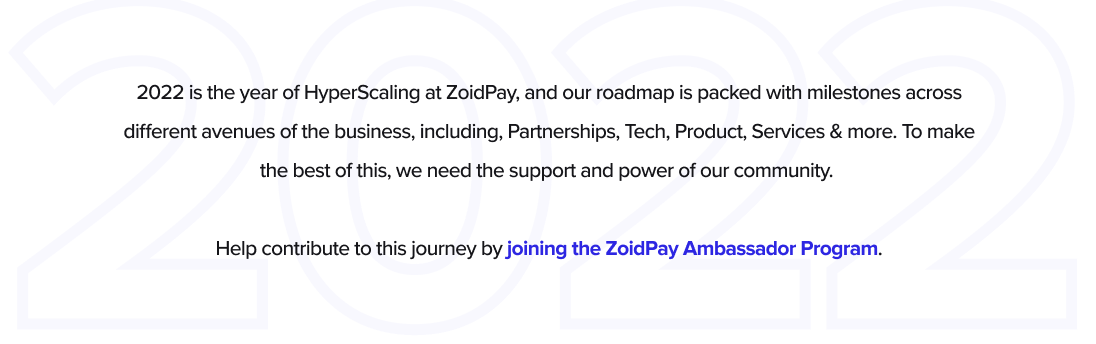
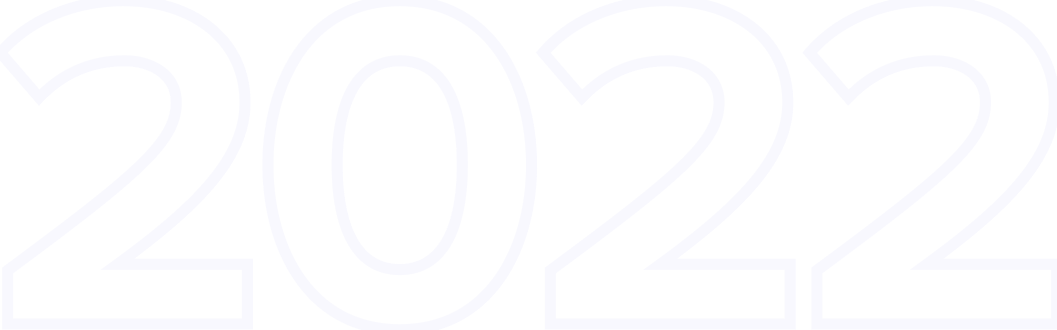
start benefit section

diff --git a/src/containers/ProgramSection.jsx b/src/containers/ProgramSection.jsx
@@ -3,11 +3,15 @@ import mapIllustration from "../assets/images/png/map-illustration.png";
 
 const ProgramSection = () => {
 	return (
-		<section className="relative py-20 px-4 bg-gradient-bg">
-			<div className="container mx-auto text-white text-center flex flex-col space-y-4 px-4">
-				<h3 className="uppercase font-extrabold text-sm lg:text-lg">About the</h3>
-				<h2 className="font-bold text-2xl lg:text-4xl xl:text-5xl">Ambassador Program</h2>
-				<p className="font-medium py-3 max-w-sm sm:max-w-md md:max-w-2xl lg:max-w-3xl mx-auto text-left sm:text-center md:text-xl">
+		<section className="py-20 px-4 bg-gradient-bg lg:pt-28 md:pb-0 overflow-hidden md:space-y-12 lg:space-y-16">
+			<div className="container mx-auto text-white text-center flex flex-col space-y-4 px-2 lg:space-y-7">
+				<h3 className="uppercase font-extrabold text-sm lg:text-lg">
+					About the
+				</h3>
+				<h2 className="font-bold text-2xl lg:text-4xl xl:text-5xl">
+					Ambassador Program
+				</h2>
+				<p className="font-medium py-3 max-w-sm sm:max-w-md md:max-w-2xl lg:max-w-3xl mx-auto text-left sm:text-center md:text-lg lg:text-xl lg:leading-[40px] xl:max-w-5xl">
 					ZoidPay is fast becoming one of the most sought after
 					projects when it comes to offering crypto liquidity
 					solutions. We are striving to be the go-to Open Architecture
@@ -15,9 +19,9 @@ const ProgramSection = () => {
 					Services. And, we need your support in this path.
 				</p>
 			</div>
-			{/* <div className="absolute inset-0 bg-gradient-bg">
+			<div className="hidden md:block md:translate-y-5 lg:translate-y-10">
 				<img src={mapIllustration} alt="map illustration" />
-			</div> */}
+			</div>
 		</section>
 	);
 };

diff --git a/src/containers/BenefitSection.jsx b/src/containers/BenefitSection.jsx
@@ -1,0 +1,31 @@
+import React from "react";
+
+const BenefitSection = () => {
+	return (
+		<section className="px-4">
+			<div className="container mx-auto px-2">
+				<div className="flex flex-col space-y-5 my-20 py-10 lg:py-20 xl:py-24 lg:my-32 bg-year-banner bg-contain md:bg-no-repeat md:bg-center">
+					{/* 2022 */}
+					<div className="flex flex-col space-y-5 font-medium max-w-sm sm:max-w-md md:max-w-2xl lg:max-w-4xl mx-auto text-left sm:text-center md:text-lg md:space-y-8 lg:text-xl lg:leading-[40px] xl:max-w-5xl">
+						<p>
+							2022 is the year of HyperScaling at ZoidPay, and our
+							roadmap is packed with milestones across different
+							avenues of the business, including, Partnerships,
+							Tech, Product, Services & more. To make the best of
+							this, we need the support and power of our
+							community.
+						</p>
+						<p>
+							Help contribute to this journey by{" "}
+							<span className="text-txt-primary">
+								joining the ZoidPay Ambassador Program.
+							</span>
+						</p>
+					</div>
+				</div>
+			</div>
+		</section>
+	);
+};
+
+export default BenefitSection;

diff --git a/src/App.jsx b/src/App.jsx
@@ -2,6 +2,7 @@ import React from "react";
 import Navbar from "./containers/Navbar";
 import Hero from "./containers/Hero";
 import ProgramSection from "./containers/ProgramSection";
+import BenefitSection from "./containers/BenefitSection";
 
 const App = () => {
 	return (
@@ -10,6 +11,7 @@ const App = () => {
 			<main>
 				<Hero />
 				<ProgramSection />
+				<BenefitSection />
 			</main>
 		</>
 	);

diff --git a/index.html b/index.html
@@ -1,5 +1,5 @@
 <!DOCTYPE html>
-<html lang="en">
+<html lang="en" class="scroll-smooth">
   <head>
     <meta charset="UTF-8" />
     <link rel="icon" type="image/svg+xml" href="/vite.svg" />
